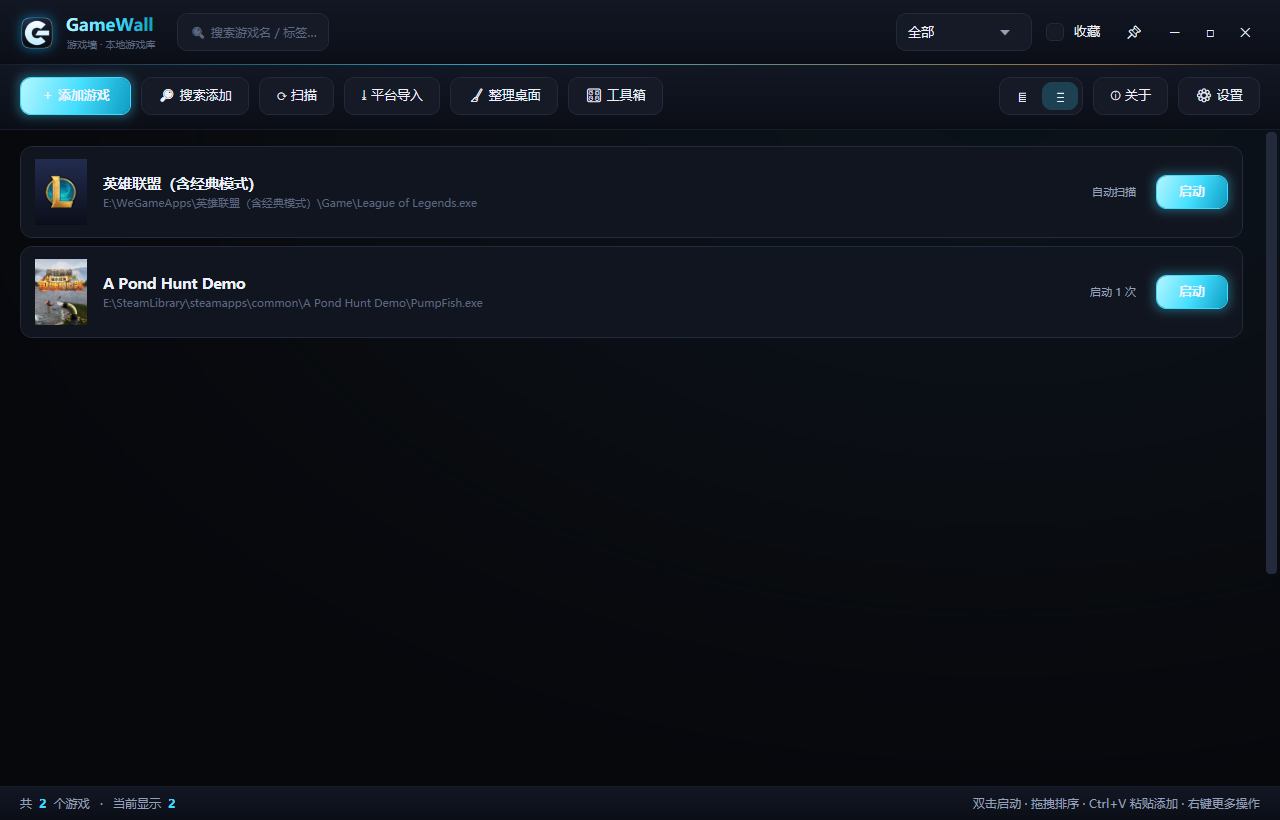
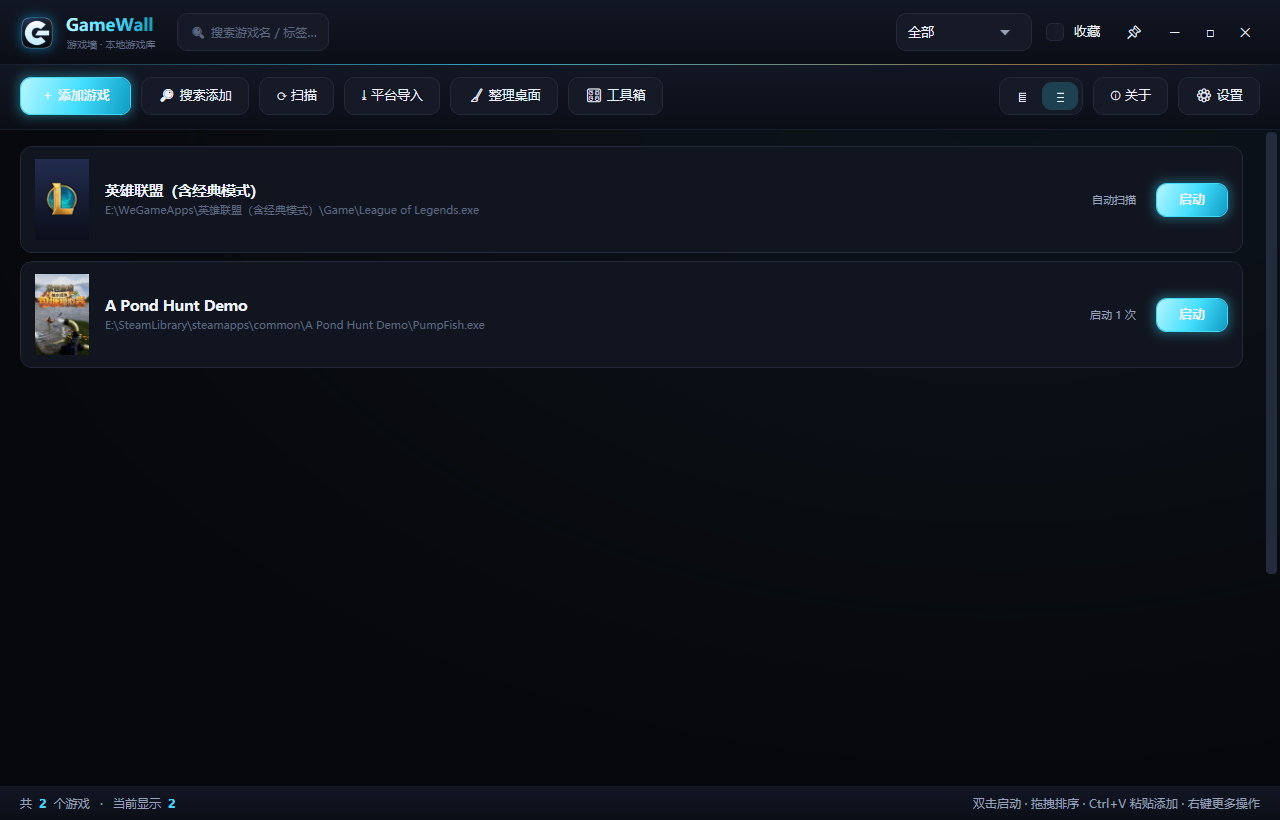
feat: 封面改为 2:3 竖版长图，去掉「关于」截图
- 卡片封面从正方形改成 2:3 的立式长方形（150×225），Steam 那张 600×900 的
  库封面终于能完整显示，不再上下裁掉一截
- 封面高度抽成 AppSettings.CardHeight（= CardWidth × 1.5），宽度与高度只在一个
  地方算，改卡片宽度时高度自动跟着走；这条派生值用 [JsonIgnore] 挡在配置外
- 设置里改完卡片宽度后主动 NotifySettingsChanged()，否则非可观察的 AppSettings
  不会触发 CardHeight 重新求值，封面会停在旧高度
- 列表视图的缩略图从 52×66 调整为 54×81，与卡片式保持同一竖版比例
- 底部渐变遮罩随竖版高度调成 108
- README 与截图流水线里去掉「关于」窗口那张截图（信息量还不如「关于作者」表格）

diff --git a/src/GameWall/Views/MainWindow.xaml b/src/GameWall/Views/MainWindow.xaml
@@ -1,4 +1,4 @@
-<Window x:Class="GameWall.Views.MainWindow"
+<Window x:Class="GameWall.Views.MainWindow"
         xmlns="http://schemas.microsoft.com/winfx/2006/xaml/presentation"
         xmlns:x="http://schemas.microsoft.com/winfx/2006/xaml"
         xmlns:d="http://schemas.microsoft.com/expression/blend/2008"
@@ -157,10 +157,12 @@
                         </Border.Effect>
 
                         <Grid>
-                            <!-- 封面区域高度跟着卡片宽度走（正方形封面），
-                                 不能用星号行——虚拟化面板按内容量高时星号行会塌掉，
+                            <!-- 封面是 2:3 的竖版比例（高 = 宽 × 3/2），高度取 CardHeight
+                                 而不是 CardWidth —— 正方形会把 Steam 那张 600×900 的封面
+                                 上下裁掉一大截。这里必须用固定高度，不能用星号行：
+                                 虚拟化面板按内容量高时星号行会塌掉，
                                  有封面的卡片和没封面的卡片就会高矮不一。 -->
-                            <Grid Height="{Binding DataContext.Settings.CardWidth, RelativeSource={RelativeSource AncestorType=Window}}">
+                            <Grid Height="{Binding DataContext.Settings.CardHeight, RelativeSource={RelativeSource AncestorType=Window}}">
                                 <Rectangle Fill="{DynamicResource Brush.SurfaceAlt}" />
                                 <Rectangle Fill="{Binding PlaceholderBrush}" />
                                 <!-- 只有用户自己指定的封面才满铺；exe 图标是 32×32 的小图，
@@ -195,9 +197,10 @@
                             </Grid>
 
                             <!-- 底部渐变遮罩 + 文字。只在有真实封面时才压暗，
-                                 否则会把居中摆的图标徽标和占位渐变一起糊掉。 -->
+                                 否则会把居中摆的图标徽标和占位渐变一起糊掉。
+                                 竖版封面高 225 时，108 的遮罩刚好盖住「名称 + 副标题」这一带。 -->
                             <Rectangle x:Name="CardOverlayRect" Fill="{DynamicResource Brush.CardOverlay}"
-                                       VerticalAlignment="Bottom" Height="112"
+                                       VerticalAlignment="Bottom" Height="108"
                                        Visibility="{Binding HasCover, Converter={StaticResource BoolToVis}}" />
 
                             <!-- 左上角角标 -->
@@ -426,7 +429,8 @@
                         <ColumnDefinition Width="Auto" />
                     </Grid.ColumnDefinitions>
 
-                    <Border Grid.Column="0" Width="52" Height="66" CornerRadius="9" ClipToBounds="True"
+                    <!-- 缩略图也用 2:3（54×81），和卡片式的竖版封面保持同一比例 -->
+                    <Border Grid.Column="0" Width="54" Height="81" CornerRadius="9" ClipToBounds="True"
                             Background="{DynamicResource Brush.SurfaceAlt}">
                         <Grid>
                             <Rectangle Fill="{Binding PlaceholderBrush}" />
@@ -434,7 +438,7 @@
                                    Stretch="UniformToFill"
                                    RenderOptions.BitmapScalingMode="HighQuality"
                                    Visibility="{Binding HasCover, Converter={StaticResource BoolToVis}}" />
-                            <!-- 列表里缩略图只有 52×66，图标按原样等比摆进去，不拉伸 -->
+                            <!-- 列表里缩略图只有 54×81，图标按原样等比摆进去，不拉伸 -->
                             <Image Source="{Binding IconImage, Converter={StaticResource PathToImage}}"
                                    Width="36" Height="36"
                                    Stretch="Uniform"

diff --git a/src/GameWall/Models/AppSettings.cs b/src/GameWall/Models/AppSettings.cs
@@ -1,5 +1,6 @@
 using System;
 using System.Collections.Generic;
+using System.Text.Json.Serialization;
 
 namespace GameWall.Models;
 
@@ -73,11 +74,27 @@ public sealed class AppSettings
     public WallViewMode ViewMode { get; set; } = WallViewMode.Card;
 
     /// <summary>
-    /// 卡片宽度（像素），封面高度跟着宽度走（正方形）。
+    /// 卡片宽度（像素）。封面按 3:4 的竖版比例跟着变高（见 <see cref="CardHeight"/>）。
     /// 默认 150 —— 一屏能放下 6~8 张，接近 Steam 库的密度；
     /// 想更大气可以拖到 260。
     /// </summary>
     public double CardWidth { get; set; } = 150;
+
+    /// <summary>
+    /// 封面高宽比（高 ÷ 宽）= 3/2。
+    /// 取 2:3 的竖版而不是正方形：Steam / GOG 的库封面本身就是 600×900 的竖图，
+    /// 正方形要么把两边裁掉、要么上下留黑边；横屏宣传图也不会被拉成方块。
+    /// </summary>
+    public const double CoverAspectRatio = 3.0 / 2.0;
+
+    /// <summary>
+    /// 封面高度（只读派生值）= 卡片宽度 × 4/3。
+    /// 界面直接绑这个，改宽度时高度自动跟着走，不用在两处各调一次。
+    /// 派生值不进 settings.json —— 反序列化时它也不能赋值，写进去只会造成一份会和
+    /// CardWidth 不一致的冗余数据。
+    /// </summary>
+    [JsonIgnore]
+    public double CardHeight => Math.Round(CardWidth * CoverAspectRatio);
 
     /// <summary>可选的卡片宽度下限</summary>
     public const double MinCardWidth = 110;

diff --git a/src/GameWall/ViewModels/MainViewModel.cs b/src/GameWall/ViewModels/MainViewModel.cs
@@ -1069,6 +1069,16 @@ public sealed class MainViewModel : ObservableObject
         OnPropertyChanged(nameof(IsSystemTheme));
     }
 
+    /// <summary>
+    /// 通知界面「设置对象的内容变了，所有 Settings.* 绑定请重新求值」。
+    ///
+    /// AppSettings 是普通 POCO（不实现 INotifyPropertyChanged），所以
+    /// 在设置窗口里改完 CardWidth / ShowLabels 之后，绑定
+    /// DataContext.Settings.CardHeight 的卡片不会自己刷新 —— 必须由这里
+    /// 把 Settings 整个属性通知一遍，WPF 才会重跑整条绑定路径。
+    /// </summary>
+    public void NotifySettingsChanged() => OnPropertyChanged(nameof(Settings));
+
     /// <summary>当前是否处于「跟随系统」模式（供界面显示/调试用）。</summary>
     public bool IsSystemTheme =>
         string.Equals(ThemeModes.Normalize(Settings.Theme), ThemeModes.System, StringComparison.Ordinal);

diff --git a/src/GameWall/Views/MainWindow.xaml.cs b/src/GameWall/Views/MainWindow.xaml.cs
@@ -782,6 +782,10 @@ public partial class MainWindow : Window
             // 外观可能改了卡片宽度 / 标签显隐，重建卡片以刷新布局
             _vm.ReloadCards();
 
+            // 卡片宽度是绑在 Settings.CardHeight 上的派生值，AppSettings 不是
+            // 可观察对象，改完必须显式通知一次，否则封面还停在旧高度上
+            _vm.NotifySettingsChanged();
+
             AutoStartService.SetEnabled(_vm.Settings.AutoStart);
             ApplyTopmostVisual(_vm.Settings.Topmost);
             Topmost = _vm.Settings.Topmost;

diff --git a/README.md b/README.md
@@ -36,9 +36,9 @@
 ### 展示
 
 - **两种视图**：卡片式（默认，像 Steam 游戏库）/ 列表式，顶栏一键切换，选择会被记住
-- **卡片密度**：默认卡片宽 150px，一屏能放下 6~8 张；想更大气可以在设置里拖到 260
+- **卡片密度**：默认卡片宽 150px、封面按 2:3 竖版（150×225），一屏能放下 6~8 张；想更大气可以在设置里拖到 260
 - **卡片动效**：悬停时卡片轻微放大（1.032×）并浮起外发光、播放键回弹展开；选中时卡片描边高亮 + 呼吸光晕脉冲
-- **封面卡片**：封面图 + 游戏名 + 标签胶囊 + 启动次数，悬停高亮描边
+- **竖版封面卡片**：2:3 的长方形封面（不是正方形）+ 游戏名 + 标签胶囊 + 启动次数，悬停高亮描边
 - **封面与图标分开处理**：自己指定了封面就满铺；没封面但有 exe 图标时居中当徽标摆（32×32 的小图标不会被拉伸成黑块）；两者都没有才用按名字哈希生成的渐变底 + 首字
 - **Steam 游戏自动取官方封面**：从 Steam 自己的 `appcache\librarycache` 里找 600×900 竖版封面，纯本地读取，不联网
 - **双击启动**：卡片双击直接拉起游戏，也可右键菜单启动
@@ -116,10 +116,6 @@
 ### 设置面板（含「跟随系统」主题、更新源）
 
 ![设置](docs/screenshots/dark-dialog-settings.png)
-
-### 关于（作者信息与检查更新）
-
-![关于](docs/screenshots/dark-dialog-about.png)
 
 ### 整理桌面
 
@@ -249,7 +245,7 @@ python tools/make-logo.py
 
 ### 设置项
 
-**外观**：主题（深色 / 浅色 / 跟随系统）、强调色（可跟随主题）、卡片宽度（110–260，默认 150）、是否显示文字标签、卡片动效开关（关掉后悬停放大与选中呼吸光都停用，只保留描边高亮）、背景图、背景色（可跟随主题）、背景遮罩透明度
+**外观**：主题（深色 / 浅色 / 跟随系统）、强调色（可跟随主题）、卡片宽度（110–260，默认 150；封面高度按 2:3 自动算）、是否显示文字标签、卡片动效开关（关掉后悬停放大与选中呼吸光都停用，只保留描边高亮）、背景图、背景色（可跟随主题）、背景遮罩透明度
 
 **窗口与行为**：置顶、启动即全屏、最小化到托盘、开机自启、移除前确认、启动游戏后最小化自己
 
@@ -528,6 +524,7 @@ GameWall/
 - [x] **1.0.9**：卡片默认宽度从 208 收到 150（老配置自动迁移）、去掉青转紫的渐变改为青→琥珀、
       占位封面改用固定暗色板（不再随机取色相）、卡片动效开关真正生效、关闭「显示名称」时
       去掉多余的底部遮罩、删除游戏时一并清理图标缓存、设置里取消能撤回主题预览、托盘菜单补齐入口
+- [x] **1.0.11**：封面从正方形改为 2:3 竖版（150×225），列表缩略图同步；README 去掉「关于」截图
 - [x] **1.0.10**：新增「游戏工具箱」——本机硬件一览（CPU / 内存 / 显卡 / 硬盘 / 显示器 / 主板 / 网卡）、
       43 项 Windows 游戏优化方案（六类分组、三套预设、应用前先记旧值可随时还原）、
       电源方案一键切换（powrprof 直调）、硬件报告导出 TXT / JSON
